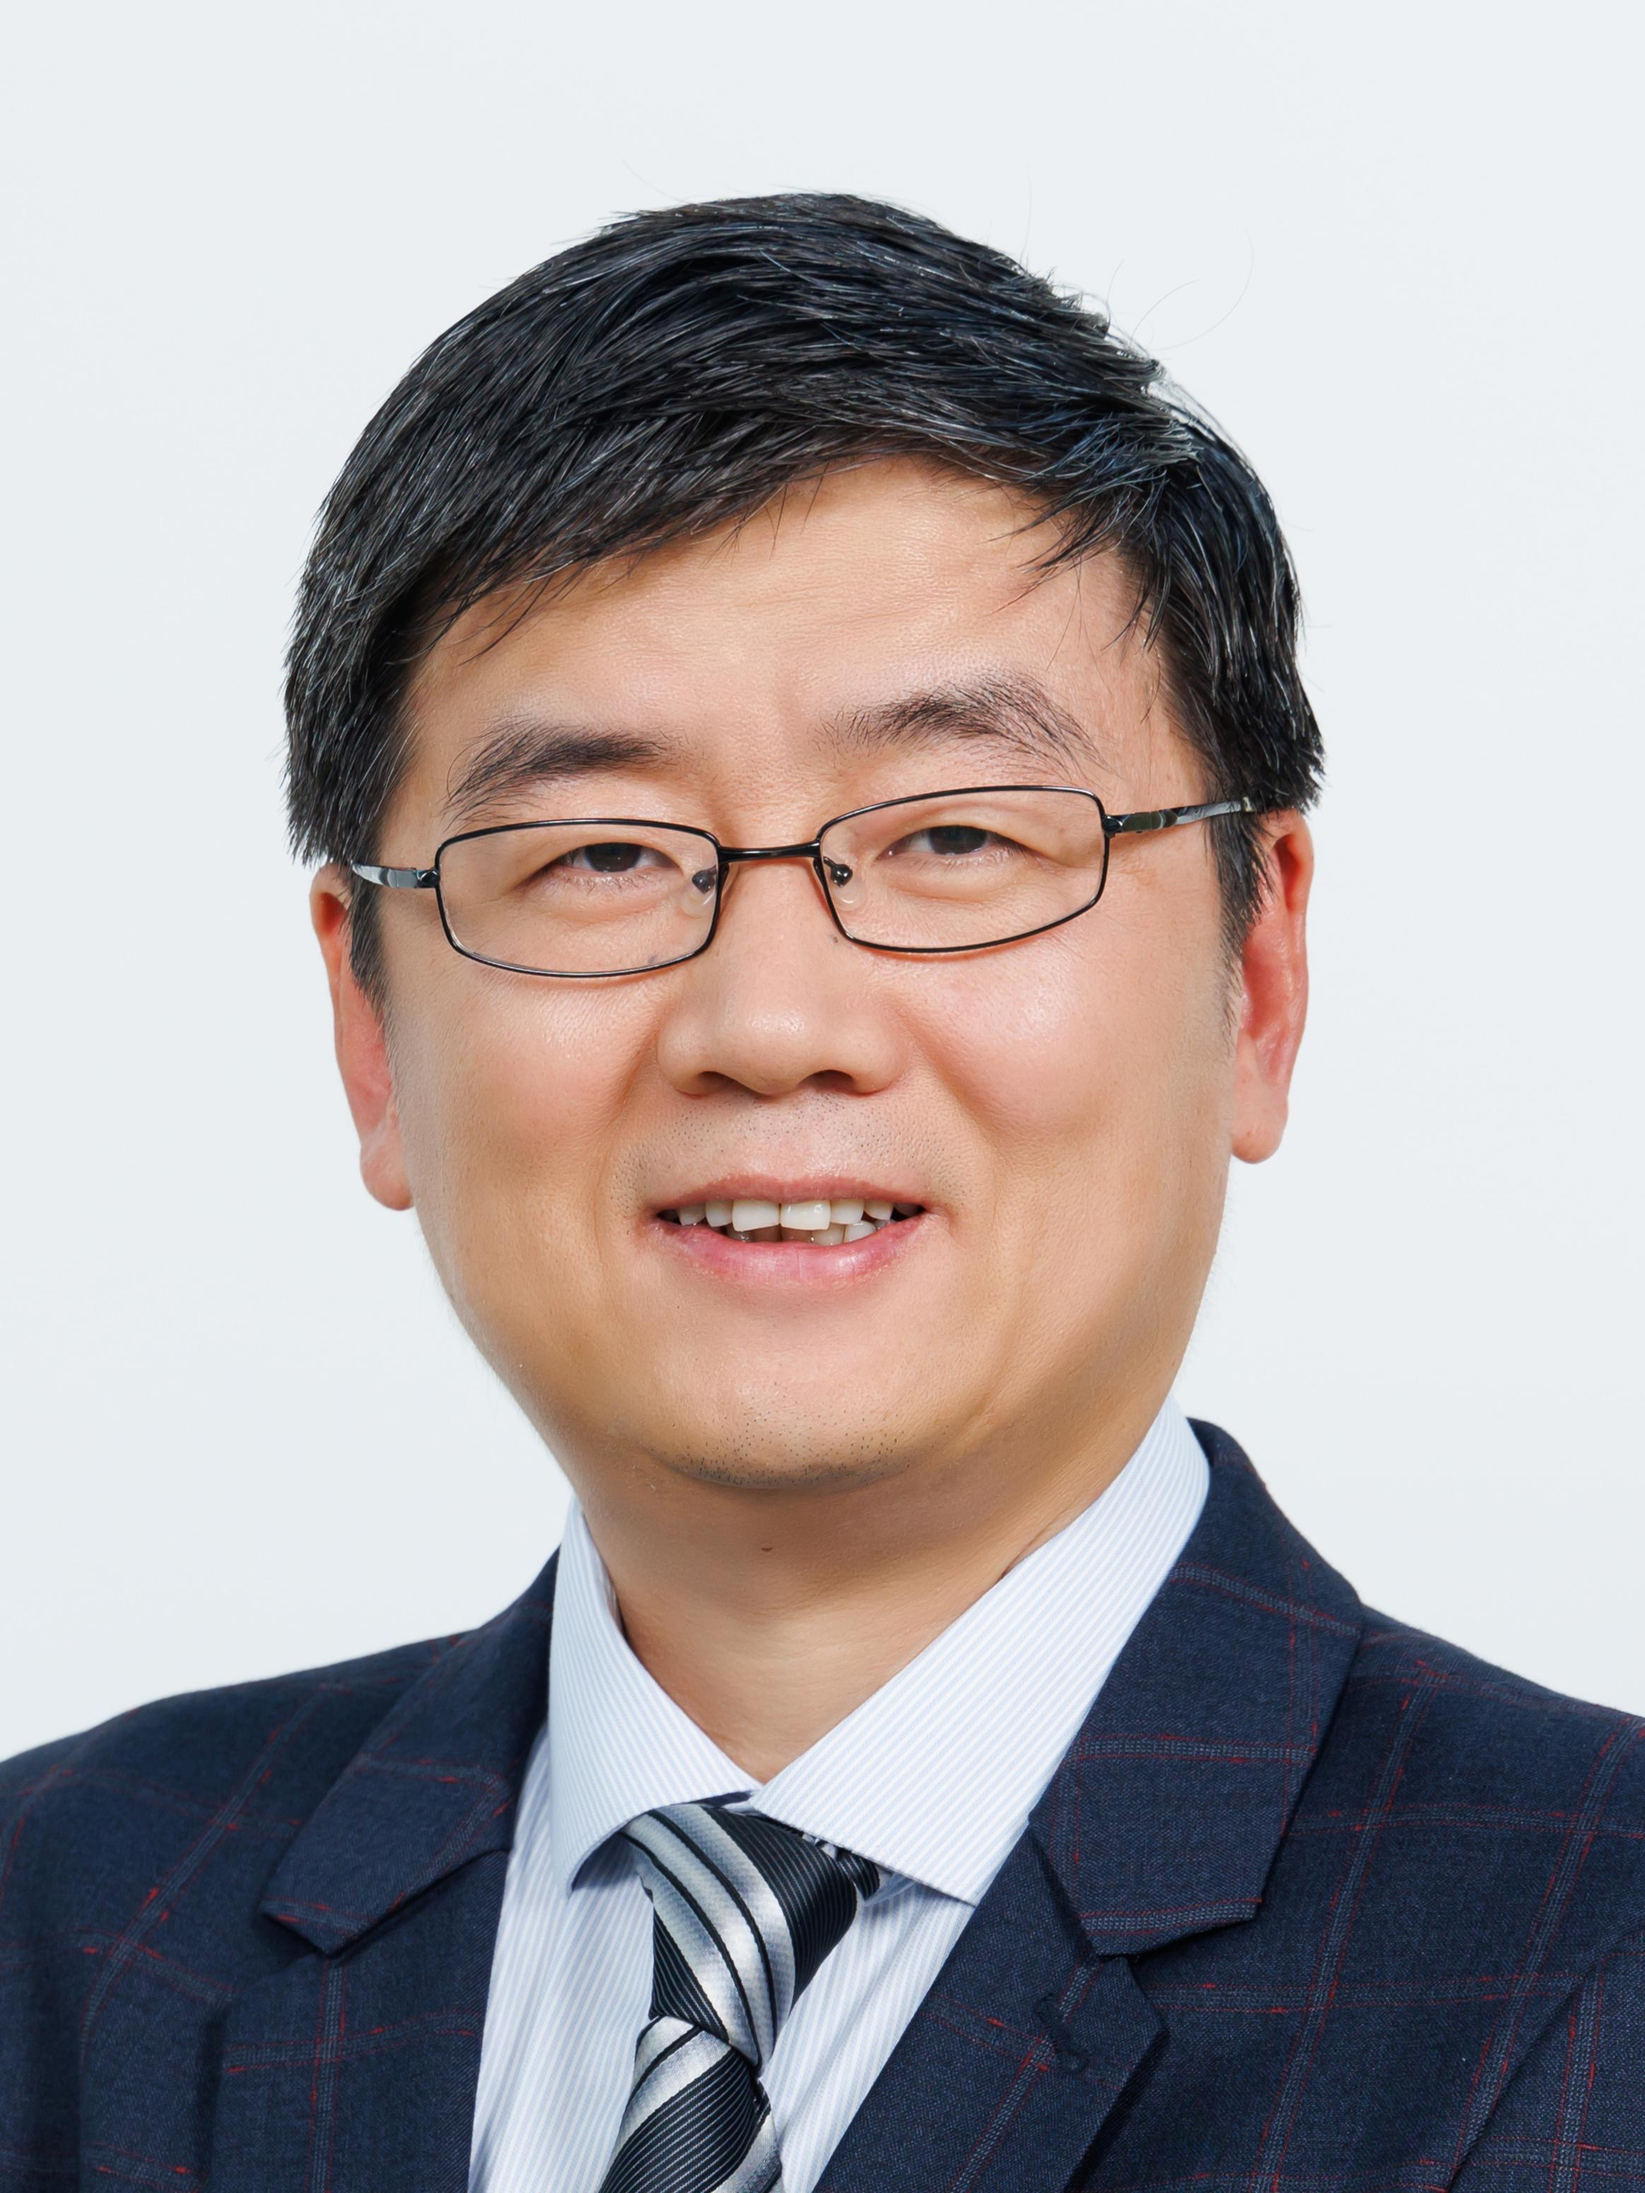
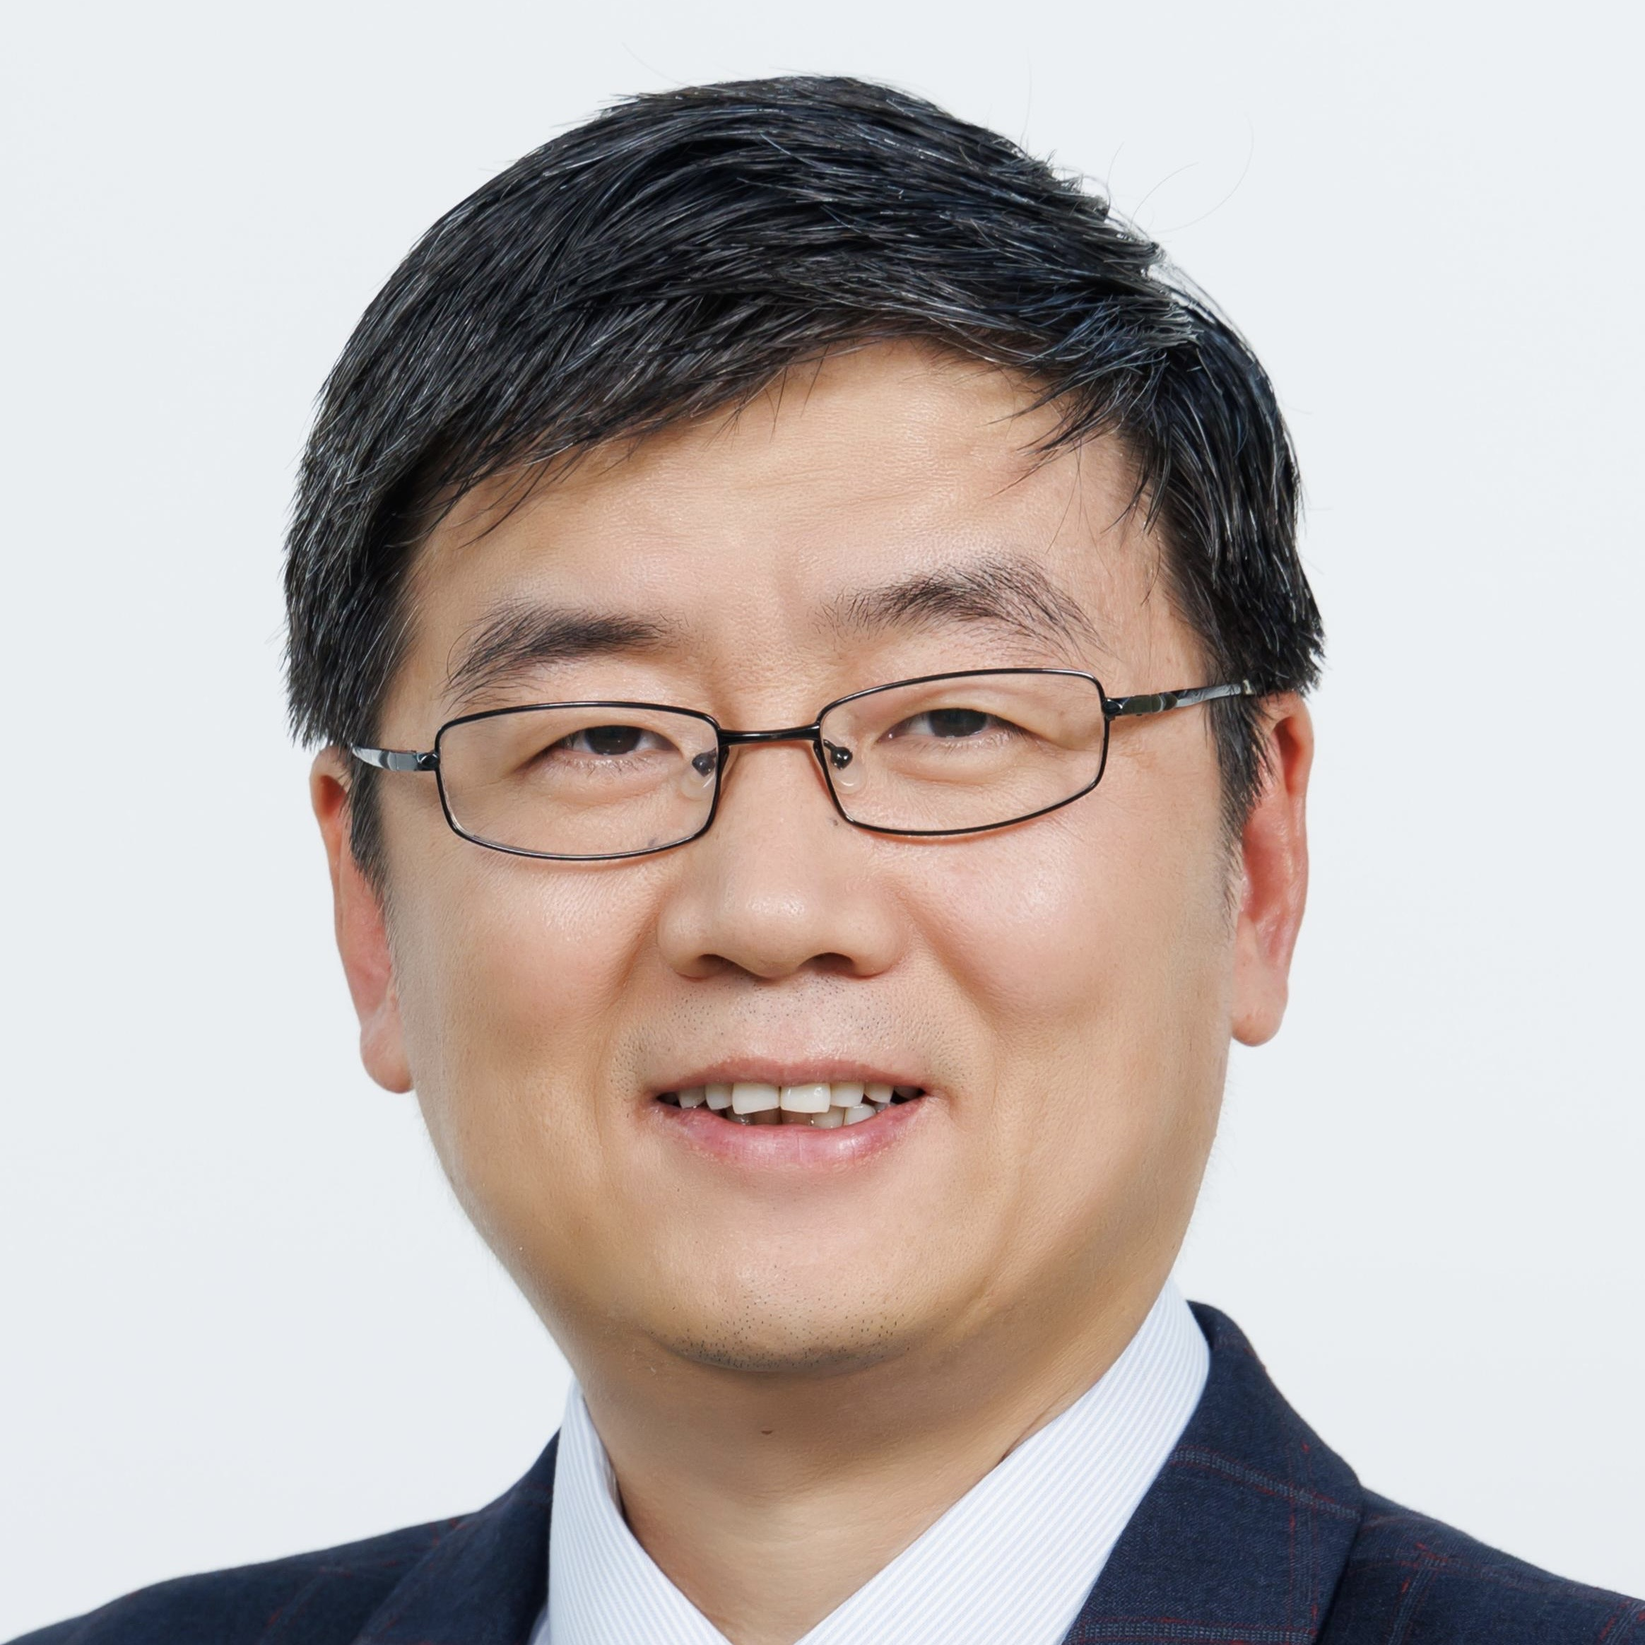
add organizer session

diff --git a/event/hkustfilm2026.html b/event/hkustfilm2026.html
@@ -735,72 +735,143 @@
 
 
 <section id="organizer" class="content-section text-left">
-    <div class="container">
-        
-        <div class="row">
-            <div class="col-lg-12">
-                <h2 class="organizer-section-title">Advisor Committee</h2>
+    <div class="download-section">
+        <div class="container">
+            <div class="col-lg-8 col-lg-offset-2">
+                <h2 class="text-center">Advisory Committee</h2>
+                <div class="row">
+                    <div class="col-md-2">
+                        <div class="person-image">
+                            <img src="/img/avatar/anyi_rao.jpg" class="person-avatar" width="80%" height="80%">
+                        </div>
+                        <div class="person-meta">
+                            <span class="person-name"><a href="https://anyirao.com/" target="_blank">Anyi Rao</a></span>
+                            <br />
+                            <span class="person-affliation">HKUST</span>
+                        </div>
+                    </div>
+
+                    <div class="col-md-2">
+                        <div class="person-image">
+                            <img src="/img/amcfilm/vennescheng.jpg" class="person-avatar" width="80%" height="80%">
+                        </div>
+                        <div class="person-meta">
+                            <span class="person-name"><a href="https://ust-hk.academia.edu/VennesCheng" target="_blank">Vennes Cheng</a></span>
+                            <br />
+                            <span class="person-affliation">HKUST</span>
+                        </div>
+                    </div>
+
+                    <div class="col-md-2">
+                        <div class="person-image">
+                            <img src="/img/amcfilm/hongbofu.jpg" class="person-avatar" width="80%" height="80%">
+                        </div>
+                        <div class="person-meta">
+                            <span class="person-name"><a href="https://hongbofu.people.ust.hk/" target="_blank">Hongbo Fu</a></span>
+                            <br />
+                            <span class="person-affliation">HKUST</span>
+                        </div>
+                    </div>
+
+                </div>
+
+                <br><br>
+
+                <h2 class="text-center">Organizers</h2>
+                <div class="row">
+                    <div class="col-md-2">
+                        <div class="person-image person-image--role" data-role="Co-Chair">
+                            <img src="/img/avatar/Tony_zhang.jpg" class="person-avatar" width="80%" height="80%">
+                        </div>
+                        <div class="person-meta">
+                            <span class="person-name"><a href="https://www.zhangtianyi.page/" target="_blank">Tony Zhang</a></span>
+                            <br />
+                            <span class="person-affliation">HKUST</span>
+                        </div>
+                    </div>
+
+                    <div class="col-md-2">
+                        <div class="person-image person-image--role" data-role="Co-Chair">
+                            <img src="/img/amcfilm/zeyuzhang.jpg" class="person-avatar" width="80%" height="80%">
+                        </div>
+                        <div class="person-meta">
+                            <span class="person-name"><a href="https://www.linkedin.com/in/zeyu-zhang-161232291/?originalSubdomain=hk" target="_blank">Zeyu Zhang</a></span>
+                            <br />
+                            <span class="person-affliation">HKUST</span>
+                        </div>
+                    </div>
+
+                    <div class="col-md-2">
+                        <div class="person-image person-image--role" data-role="Co-Chair">
+                            <img src="/img/amcfilm/jiayanchen.jpg" class="person-avatar" width="80%" height="80%">
+                        </div>
+                        <div class="person-meta">
+                            <span class="person-name"><a href="https://www.linkedin.com/in/jiayan-chen-813580375/?originalSubdomain=hk" target="_blank">Jiayan Chen</a></span>
+                            <br />
+                            <span class="person-affliation">HKUST</span>
+                        </div>
+                    </div>
+
+                    <div class="col-md-2">
+                        <div class="person-image person-image--role" data-role="Co-Chair">
+                            <img src="/img/amcfilm/ziweichi.jpg" class="person-avatar" width="80%" height="80%">
+                        </div>
+                        <div class="person-meta">
+                            <span class="person-name"><a href="https://www.sineewave.com/">Ziwei Chi</a></span>
+                            <br />
+                            <span class="person-affliation">HKUST</span>
+                        </div>
+                    </div>
+
+                    <div class="col-md-2">
+                        <div class="person-image person-image--role" data-role="Design Team">
+                            <img src="/img/amcfilm/yuezeng.jpg" class="person-avatar" width="80%" height="80%">
+                        </div>
+                        <div class="person-meta">
+                            <span class="person-name"><a href=" ">Yue Zeng</a></span>
+                            <br />
+                            <span class="person-affliation">HKUST</span>
+                        </div>
+                    </div>
+
+                    <div class="col-md-2">
+                        <div class="person-image person-image--role" data-role="Design Team">
+                            <img src="/img/amcfilm/yihanliu.jpg" class="person-avatar" width="80%" height="80%">
+                        </div>
+                        <div class="person-meta">
+                            <span class="person-name"><a href="https://www.linkedin.com/in/yihan-liu-b6234b2a3/?originalSubdomain=cn">Yihan Liu</a></span>
+                            <br />
+                            <span class="person-affliation">HKUST</span>
+                        </div>
+                    </div>
+                </div>
+
+                <div class="row">
+                    <div class="col-md-2">
+                        <div class="person-image person-image--role" data-role="Design Team">
+                            <img src="/img/amcfilm/yimingma.jpg" class="person-avatar" width="80%" height="80%">
+                        </div>
+                        <div class="person-meta">
+                            <span class="person-name"><a href=" " target="_blank">Yiming Ma</a></span>
+                            <br />
+                            <span class="person-affliation">HKUST</span>
+                        </div>
+                    </div>
+
+                    <div class="col-md-2" >
+                        <div class="person-image person-image--role" data-role="Web Team">
+                            <img src="/img/amcfilm/longjihuang.jpg" class="person-avatar" width="80%" height="80%">
+                        </div>
+                        <div class="person-meta">
+                            <span class="person-name"><a href="https://cislab.hkust-gz.edu.cn/members/longji-huang/" target="_blank">Longji Huang</a></span>
+                            <br />
+                            <span class="person-affliation">HKUST(GZ)</span>
+                        </div>
+                    </div>
+                </div>
+
             </div>
         </div>
-
-        <div class="advisor-grid">
-            <div class="advisor-card" data-profile-url="https://anyirao.com/" tabindex="0">
-                <div class="advisor-card__img-col">
-                    <img src="/img/amcfilm/anyirao.jpg" alt="Advisor" class="advisor-card__img">
-                </div>
-                <div class="advisor-card__body">
-                    <h3 class="advisor-name">Dr. Anyi Rao</h3>
-                    <span class="advisor-title">
-                        <span class="advisor-role">Assistant Professor</span> <br>
-                        <span class="advisor-division">Division of Arts and Machine Creativity</span>
-                    </span>
-                    <ul class="advisor-interests">
-                        <li>- AI for Creativity</li>
-                        <li>- Computer Vision</li>
-                        <li>- Human–Computer Interaction</li>
-                        <li>- Film Analysis & Editing</li>
-                    </ul>
-                </div>
-            </div>
-
-            <div class="advisor-card" data-profile-url="https://ust-hk.academia.edu/VennesCheng" tabindex="0">
-                <div class="advisor-card__img-col">
-                    <img src="/img/amcfilm/vennescheng.jpg" alt="Advisor" class="advisor-card__img">
-                </div>
-                <div class="advisor-card__body">
-                    <h3 class="advisor-name">Dr. Vennes Sau Wai CHENG</h3>
-                    <span class="advisor-title">
-                        <span class="advisor-role">Lecturer I</span> <br>
-                        <span class="advisor-division">Division of Arts and Machine Creativity</span>
-                    </span>
-                    <ul class="advisor-interests">
-                        <li>- Contemporary Art</li>
-                        <li>- Art Archive</li>
-                        <li>- Curatorial Studies</li>
-                        <li>- Critical Theory</li>
-                    </ul>
-                </div>
-            </div>
-
-            <div class="advisor-card" data-profile-url="https://hongbofu.people.ust.hk/" tabindex="0">
-                <div class="advisor-card__img-col">
-                    <img src="/img/amcfilm/hongbofu_2025.jpg" alt="Advisor" class="advisor-card__img">
-                </div>
-                <div class="advisor-card__body">
-                    <h3 class="advisor-name">Prof. Hongbo Fu</h3>
-                    <span class="advisor-title">
-                        <span class="advisor-role">Acting Head and Professor</span> <br>
-                        <span class="advisor-division">Division of Arts and Machine Creativity</span>
-                    </span>
-                    <ul class="advisor-interests">
-                        <li>- Computer Graphics</li>
-                        <li>- Computer Vision</li>
-                        <li>- Human–Computer Interaction</li>
-                    </ul>
-                </div>
-            </div>
-        </div>
-
     </div>
 </section>
 

diff --git a/css/hkustfilm/hkustfilm2026.css b/css/hkustfilm/hkustfilm2026.css
@@ -453,6 +453,49 @@
 }
 
 
+/* organizer section uses the shared download-section background */
+.person-image--role {
+    position: relative;
+    overflow: hidden;
+    border-radius: 50%;
+    width: 120px;
+    height: 120px;
+    margin: 0 auto 5px;
+}
+
+.person-image--role::after {
+    content: attr(data-role);
+    position: absolute;
+    inset: 0;
+    display: flex;
+    align-items: center;
+    justify-content: center;
+    background: rgba(0, 0, 0, 0.72);
+    color: #fff;
+    font-family: 'Montserrat', sans-serif;
+    font-size: 0.85em;
+    font-weight: 700;
+    letter-spacing: 0.5px;
+    text-transform: uppercase;
+    opacity: 0;
+    transition: opacity 0.2s ease;
+    padding: 10px;
+    text-align: center;
+    border-radius: 50%;
+}
+
+.person-image--role:hover::after {
+    opacity: 1;
+}
+
+.person-image--role img {
+    width: 100% !important;
+    height: 100% !important;
+    object-fit: cover;
+    border-radius: 50%;
+    display: block;
+}
+
 @media (max-width: 991px) {
     .advisor-grid {
         padding: 0;
